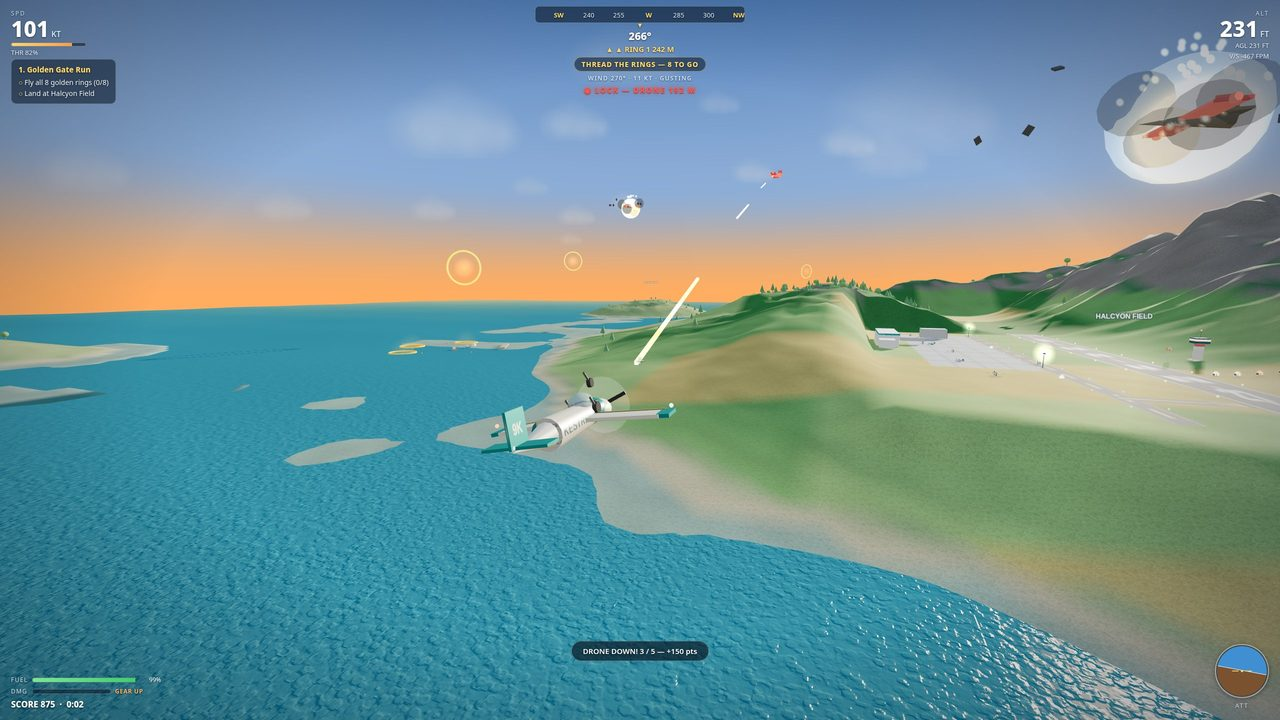
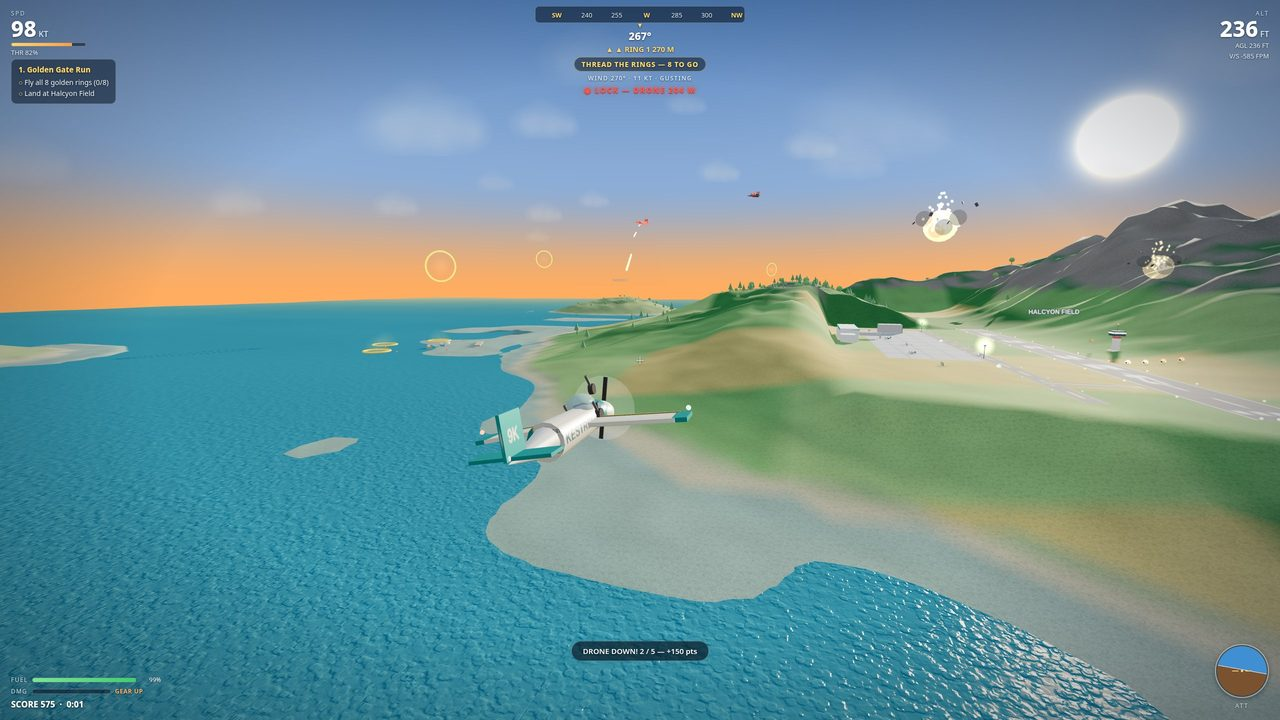
Shot 03 & 04 fix (v8): end-card clarity + dead-drone cleanup\n\n- Shot 03: the giant smoke blob was a real bug, not a cloud —   destroyEnemy dropped the drone from the enemy list but never   removed its mesh, so the dead drone hovered whole inside its   own smoke. Meshes are now removed on destroy; 

diff --git a/game/js/game.js b/game/js/game.js
@@ -201,6 +201,17 @@
 
     function endMissionComplete() {
       var m = game.mission;
+      // stand the fight down first: clear the lock and stop the guns /
+      // spawner, and hide the lock element outright — the HUD is never
+      // redrawn once the state flips to complete, so a stale LOCK
+      // would sit on the end card forever (v7 complete shot)
+      if (game.combat && Combat) Combat.standDown(game.combat);
+      var lockEl = $("hud-lock");
+      if (lockEl) lockEl.classList.add("hidden");
+      // level the plane on its gear for the end card: belt and braces
+      // next to the physics touchdown levelling, so the final chase
+      // frame (same frame, below) renders it wings-level
+      s.pitch = 0; s.roll = 0;
       // the second line only names the goals this mission actually
       // has: a ring rally never dropped a crate, so "Crates on
       // target 0/3" must not appear there
@@ -508,10 +519,16 @@
           game.combatKillAt = 1.3; game.combatFreezeAt = 2.0;
         } else {
           // ring run with a fight on: the gate rally, drones on the
-          // ring-1 leg, the lock lit and tracers out
+          // ring-1 leg, the lock lit and tracers out. Drones sit
+          // further ahead than the v7 offsets (nearest 190 m, not
+          // 150): the plane closes ~70 m before the freeze, and a
+          // kill at 150 m ended up ~55 m from the lens, its flash +
+          // smoke + ghost mesh filling a whole corner as a giant blob.
+          // Freeze is earlier too (1.6 s, not 2.0), so the scripted
+          // kill is caught mid-bloom while still far downrange
           cPose = { x: 500, y: 76, z: 120, heading: -Math.PI / 2 };
-          cOffs = [[150, 12, 30], [260, 25, -60], [210, 5, 90], [300, 40, -20]];
-          game.combatKillAt = 1.3; game.combatFreezeAt = 2.0;
+          cOffs = [[190, 12, 30], [280, 25, -60], [240, 5, 90], [320, 40, -20]];
+          game.combatKillAt = 1.3; game.combatFreezeAt = 1.6;
         }
         resetPlane(cPose);
         s.onGround = false; s.airborne = true;
@@ -624,17 +641,32 @@
         // Cover moves closer too (17 -> 13.5 m) with more side offset so
         // the 3/4 view shows the nose and livery, not just the tail.
         var landTight = game.staging === "landing" || game.staging === "complete";
+        // v8: the combat-complete end card needs its own angle — the
+        // tight rear chase puts the tail fin ("9K") huge in the
+        // foreground and the pale plane vanishes against the bright
+        // strip. A three-quarter rear-side view shows the fuselage
+        // flank + livery against grass/hills instead.
         // v7 combat chase: pulled back with a side offset, a true
         // three-quarter rear view — the guns, the tracers and the
-        // drones ahead all read in the frame instead of the tail
+        // drones ahead all read in the frame instead of the tail.
+        // Ring-run staging sits a touch tighter (the v7 frame left the
+        // plane small at the left edge behind its own explosion)
         var combatView = !!game.combat;
-        var back = tight ? 13.5 : (landTight ? 8.5 : (combatView ? 15 : 11 + s.speed * 0.04)),
-          up = tight ? 3.2 : (landTight ? 2.2 : (combatView ? 4.2 : 3.2 + s.speed * 0.008));
+        var ringTight = game.staging === "ringcombat";
+        // v8d: third pass (back 7 / up 1.8 / side 10) backfired —
+        // closer + lower put the tail fin ("9K") huge again while
+        // the fuselage foreshortened away. The v8b side profile
+        // (back 10 / up 2.0 / side 14) read best: keep its angle,
+        // pull slightly closer and tighten FOV so the Kestrel fills
+        // ~a third of the frame instead of a fifth.
+        var completeView = game.staging === "combatcomplete";
+        var back = tight ? 13.5 : (landTight ? 8.5 : (completeView ? 9 : (combatView ? (ringTight ? 13 : 15) : 11 + s.speed * 0.04))),
+          up = tight ? 3.2 : (landTight ? 2.2 : (completeView ? 2.2 : (combatView ? (ringTight ? 3.8 : 4.2) : 3.2 + s.speed * 0.008)));
         // ANGLE FIX (v6): a wider side offset (12 m, not 8) puts the
         // chase at a true three-quarter rear angle, so the fuselage
         // flank — and the KESTREL-9 name running along it — reads
         // instead of the tail alone
-        var side = tight ? 12 : (landTight ? 2.5 : (combatView ? 9 : 0));
+        var side = tight ? 12 : (landTight ? 2.5 : (completeView ? 12 : (combatView ? (ringTight ? 7 : 9) : 0)));
         var q2 = new THREE.Quaternion().setFromEuler(new THREE.Euler(s.pitch * 0.4, -s.heading, -s.roll * 0.45, "YXZ"));
         tmpV.set(side, up, back).applyQuaternion(q2).add(planeObj.group.position);
         var k = 1 - Math.exp(-ldt * (tight ? 22 : 8));
@@ -646,6 +678,11 @@
         if (tight) {
           tmpV.copy(planeObj.group.position).addScaledVector(tmpF, 20);
           tmpV.y += 2.0;
+        } else if (completeView) {
+          // aim at the plane itself with a little strip ahead so the
+          // Kestrel stays centred and the runway reads behind it
+          tmpV.copy(planeObj.group.position).addScaledVector(tmpF, 4);
+          tmpV.y += 1.0;
         } else if (landTight) {
           // look further ahead and a touch higher so the runway and the
           // airport fill the frame instead of the grass below the plane
@@ -662,7 +699,7 @@
         var k2 = 1 - Math.exp(-ldt * 7);
         camLook.lerp(tmpV, k2);
         camera.lookAt(camLook);
-        var wantFov = landTight ? 46 : 62 + clamp((s.speed - 30) / 50, 0, 1) * 16;
+        var wantFov = landTight ? 46 : (completeView ? 44 : 62 + clamp((s.speed - 30) / 50, 0, 1) * 16);
         camera.fov = lerp(camera.fov, wantFov, ldt * 3);
       }
       camera.updateProjectionMatrix();
@@ -692,12 +729,15 @@
       SkylaneWorld.update(world, visDt, game.time, quality);
       // in-world labels fade out up close so the plane never flies
       // through a giant wall of text; they read from the air, not from
-      // on top of the sign
+      // on top of the sign. Once the end card is up they go away
+      // entirely: the 46 m HALCYON FIELD sprite still reads as a pale
+      // watermark across the sky even at 0.12 opacity (v7 complete shot)
       if (world.labels) {
         for (var li = 0; li < world.labels.length; li++) {
           var lb = world.labels[li];
           var ld = lb.position.distanceTo(camera.position);
-          lb.material.opacity = clamp((ld - 80) / 150, 0, 0.9);
+          lb.material.opacity = (game.state === "complete" || game.state === "crashed")
+            ? 0 : clamp((ld - 80) / 150, 0, 0.9);
         }
       }
       if (game.state === "flying" && s) {

diff --git a/game/js/combat.js b/game/js/combat.js
@@ -121,6 +121,16 @@
     return cb;
   }
 
+  // Stand the fight down (mission complete / crash): the lock, the
+  // guns and the spawner all stop at once, so no combat HUD element
+  // can survive into the end card — the lock used to freeze on its
+  // last drone because combat updates stop when the mission is done
+  // and the HUD is never redrawn in the complete state.
+  function standDown(cb) {
+    cb.lock = null; cb.lockDist = 0;
+    cb.autoFire = false; cb.spawn = false;
+  }
+
   function pushBoom(C, cb, x, y, z) {
     var shards = [];
     for (var i = 0; i < 6; i++) {
@@ -133,7 +143,11 @@
         rx: Math.random() * 6, rz: Math.random() * 6,
       });
     }
-    cb.booms.push({ x: x, y: y, z: z, life: 2.0, maxLife: 2.0, shards: shards, viz: null });
+    // an explosion blooms fast and is mostly gone a second later, so
+    // a kill the plane is flying towards never looms over the camera
+    // as a giant smoke mass at the freeze (v7: 2.0 s life left it at
+    // half strength right next to the lens in the ring-run shot)
+    cb.booms.push({ x: x, y: y, z: z, life: 1.5, maxLife: 1.5, shards: shards, viz: null });
     if (cb.booms.length > 4) cb.booms.shift();
     if (cb.fx) { cb.fx("boom", x, y, z); }
   }
@@ -141,6 +155,11 @@
   function destroyEnemy(C, cb, e) {
     if (e.dead) return;
     e.dead = true;
+    // take the wreck with it: the mesh used to stay in the scene after
+    // the drone left the enemies list, so a dead drone hovered intact
+    // inside its own explosion smoke — the red drone in the v7
+    // ring-run shot's giant smoke blob
+    if (e.mesh && cb.viz && cb.viz.scene) { cb.viz.scene.remove(e.mesh); e.mesh = null; }
     cb.kills++;
     var cfg = C.COMBAT || {};
     var pts = cfg.killScore || 150;
@@ -434,19 +453,22 @@
       boom.viz.group.position.set(boom.x, boom.y, boom.z);
       boom.viz.group.visible = true;
       // a hot core, not a balloon: small, deep orange, gone fast —
-      // the fire-coloured particle burst carries the rest of the blast
-      boom.viz.flash.scale.setScalar(2 + age * 5);
+      // the fire-coloured particle burst carries the rest of the blast.
+      // Kept small on purpose: the plane flies towards its kill, so
+      // a fast-growing flash + smoke reads as a giant glitch blob
+      // once the camera closes to ~50 m (v7 ring-run shot)
+      boom.viz.flash.scale.setScalar(2 + age * 3);
       boom.viz.flash.material.opacity = Math.max(0, 0.9 - age * 1.3);
       for (var s2 = 0; s2 < boom.viz.smokes.length; s2++) {
         var sm = boom.viz.smokes[s2];
-        sm.scale.setScalar(1.0 + age * 2.5);
-        sm.material.opacity = Math.max(0, 0.45 - age * 0.35);
+        sm.scale.setScalar(1.0 + age * 1.5);
+        sm.material.opacity = Math.max(0, 0.45 - age * 0.6);
       }
       for (var q = 0; q < boom.viz.shards.length; q++) {
         var shm = boom.viz.shards[q], shd = boom.shards[q];
         shm.position.set(shd.x, shd.y, shd.z);
         shm.rotation.set(shd.rx, 0, shd.rz);
-        shm.visible = age < 0.9;
+        shm.visible = age < 0.7;
       }
     }
     for (var b2 = bi; b2 < v.boomPool.length; b2++) v.boomPool[b2].group.visible = false;
@@ -469,6 +491,7 @@
     fireGun: fireGun, destroyEnemy: destroyEnemy, update: update,
     accuracy: accuracy, presetKills: presetKills,
     attachVisuals: attachVisuals, render: render, clearVisuals: clearVisuals,
+    standDown: standDown,
     forwardOf: forwardOf, aliveEnemies: aliveEnemies,
   };
   if (typeof module !== "undefined" && module.exports) module.exports = api;

diff --git a/tests/logic.test.js b/tests/logic.test.js
@@ -558,5 +558,58 @@ check("airborne after takeoff", tk.s.airborne === true);
   check("v7 intercept completes on the home landing", m.done === true, "done=" + m.done);
 })();
 
+// ---- v7 fix: touchdown levels the plane, fight stands down, wreck leaves ------
+(function () {
+  // banked 0.5 rad on final over the Halcyon runway, gentle sink:
+  // touchdown must leave the plane wings-level on its gear, not
+  // frozen at a residual bank in the end card (v7 complete shot)
+  const s = Phys.makeState(C, { x: -40, y: 26.1, z: -60, heading: -Math.PI / 2 });
+  s.onGround = false; s.airborne = true;
+  s.vx = -25; s.vy = -1.5; s.vz = 0;
+  s.roll = 0.5; s.pitch = -0.05; s.throttle = 0.3; s.gearDown = true;
+  let evts = [];
+  for (let i = 0; i < 120 && !s.onGround; i++) {
+    evts = Phys.update(C, s, 1 / 60, { pitch: 0, roll: 0, yaw: 0 }, 0);
+  }
+  check("v7 touchdown happens on the runway", s.onGround === true, "onGround=" + s.onGround);
+  check("v7 touchdown zeroes the roll", s.roll === 0, "roll=" + s.roll);
+  check("v7 touchdown zeroes the pitch", s.pitch === 0, "pitch=" + s.pitch);
+  check("v7 touchdown is not a crash", s.crashed === false, "crashed=" + s.crashed);
+
+  // standDown clears the lock a mission-complete must not show
+  const cb = Combat.makeCombat(C, { missionId: "intercept" });
+  const air = Phys.makeState(C, { x: 0, y: 100, z: 0, heading: 0 });
+  air.onGround = false; air.airborne = true;
+  const e = Combat.spawnEnemy(C, cb, air, { x: 0, y: 100, z: -200 });
+  Combat.update(C, cb, 0.1, air, false);
+  check("v7 lock is lit before standDown", cb.lock === e && cb.lockDist > 0, "lock=" + (cb.lock && cb.lock.id));
+  cb.autoFire = true;
+  Combat.standDown(cb);
+  check("v7 standDown clears the lock", cb.lock === null && cb.lockDist === 0, "lock=" + cb.lock);
+  check("v7 standDown stops guns and spawns", cb.autoFire === false && cb.spawn === false, "autoFire=" + cb.autoFire + " spawn=" + cb.spawn);
+
+  // a splashed drone's mesh leaves the scene with it — no ghost
+  // wreck hovering inside its own explosion smoke (v7 ring-run shot)
+  const cb2 = Combat.makeCombat(C, { missionId: "intercept" });
+  const removed = [];
+  cb2.viz = { scene: { remove: function (m) { removed.push(m); } } };
+  const e2 = Combat.spawnEnemy(C, cb2, air, { x: 0, y: 100, z: -200 });
+  const fakeMesh = { fake: true };
+  e2.mesh = fakeMesh;
+  Combat.destroyEnemy(C, cb2, e2);
+  check("v7 destroyed drone mesh removed from scene", removed.indexOf(fakeMesh) !== -1, "removed=" + removed.length);
+  check("v7 destroyed drone mesh nulled", e2.mesh === null, "mesh=" + e2.mesh);
+  // explosions are short-lived now: mostly faded a second after the kill
+  check("v7 explosion life is 1.5 s", cb2.booms.length === 1 && cb2.booms[0].maxLife === 1.5,
+    "maxLife=" + (cb2.booms[0] && cb2.booms[0].maxLife));
+  check("v7 explosion cap is 4", (function () {
+    for (let i = 0; i < 6; i++) {
+      const d = Combat.spawnEnemy(C, cb2, air, { x: 0, y: 100, z: -200 - i * 10 });
+      Combat.destroyEnemy(C, cb2, d);
+    }
+    return cb2.booms.length === 4;
+  })(), "booms=" + cb2.booms.length);
+})();
+
 console.log("\n" + pass + " passed, " + fail + " failed");
 process.exit(fail ? 1 : 0);

diff --git a/game/js/hud.js b/game/js/hud.js
@@ -140,10 +140,13 @@
         $("hud-target-dist").textContent = "";
       }
       // target lock: nearest enemy drone with its distance, red and
-      // loud — the thing a still screenshot must show is happening
+      // loud — the thing a still screenshot must show is happening.
+      // Never after the mission is done: the lock used to survive
+      // into the end card (combat updates stop at mission-done and
+      // the HUD is never redrawn in the complete state)
       var lockEl = $("hud-lock");
       if (lockEl) {
-        if (combat && combat.lock) {
+        if (combat && combat.lock && !(mission && mission.done)) {
           lockEl.textContent = "◉ LOCK — DRONE " + fmtDist(combat.lockDist);
           lockEl.classList.remove("hidden");
         } else lockEl.classList.add("hidden");

diff --git a/game/js/physics.js b/game/js/physics.js
@@ -350,7 +350,10 @@
         }
         s.onGround = true; s.airborne = false;
         s.y = g; s.vy = 0;
-        s.pitch = 0; s.roll *= 0.4;
+        // level on the gear: the old 0.4x residual bank froze into the
+        // end card (physics stops at mission-complete), so the landed
+        // plane read as tipped / rolled over in the v7 complete shot
+        s.pitch = 0; s.roll = 0;
         // keep rolling speed along heading
         var fsp = Math.sqrt(s.vx * s.vx + s.vz * s.vz);
         var fhx = Math.sin(s.heading), fhz = -Math.cos(s.heading);
